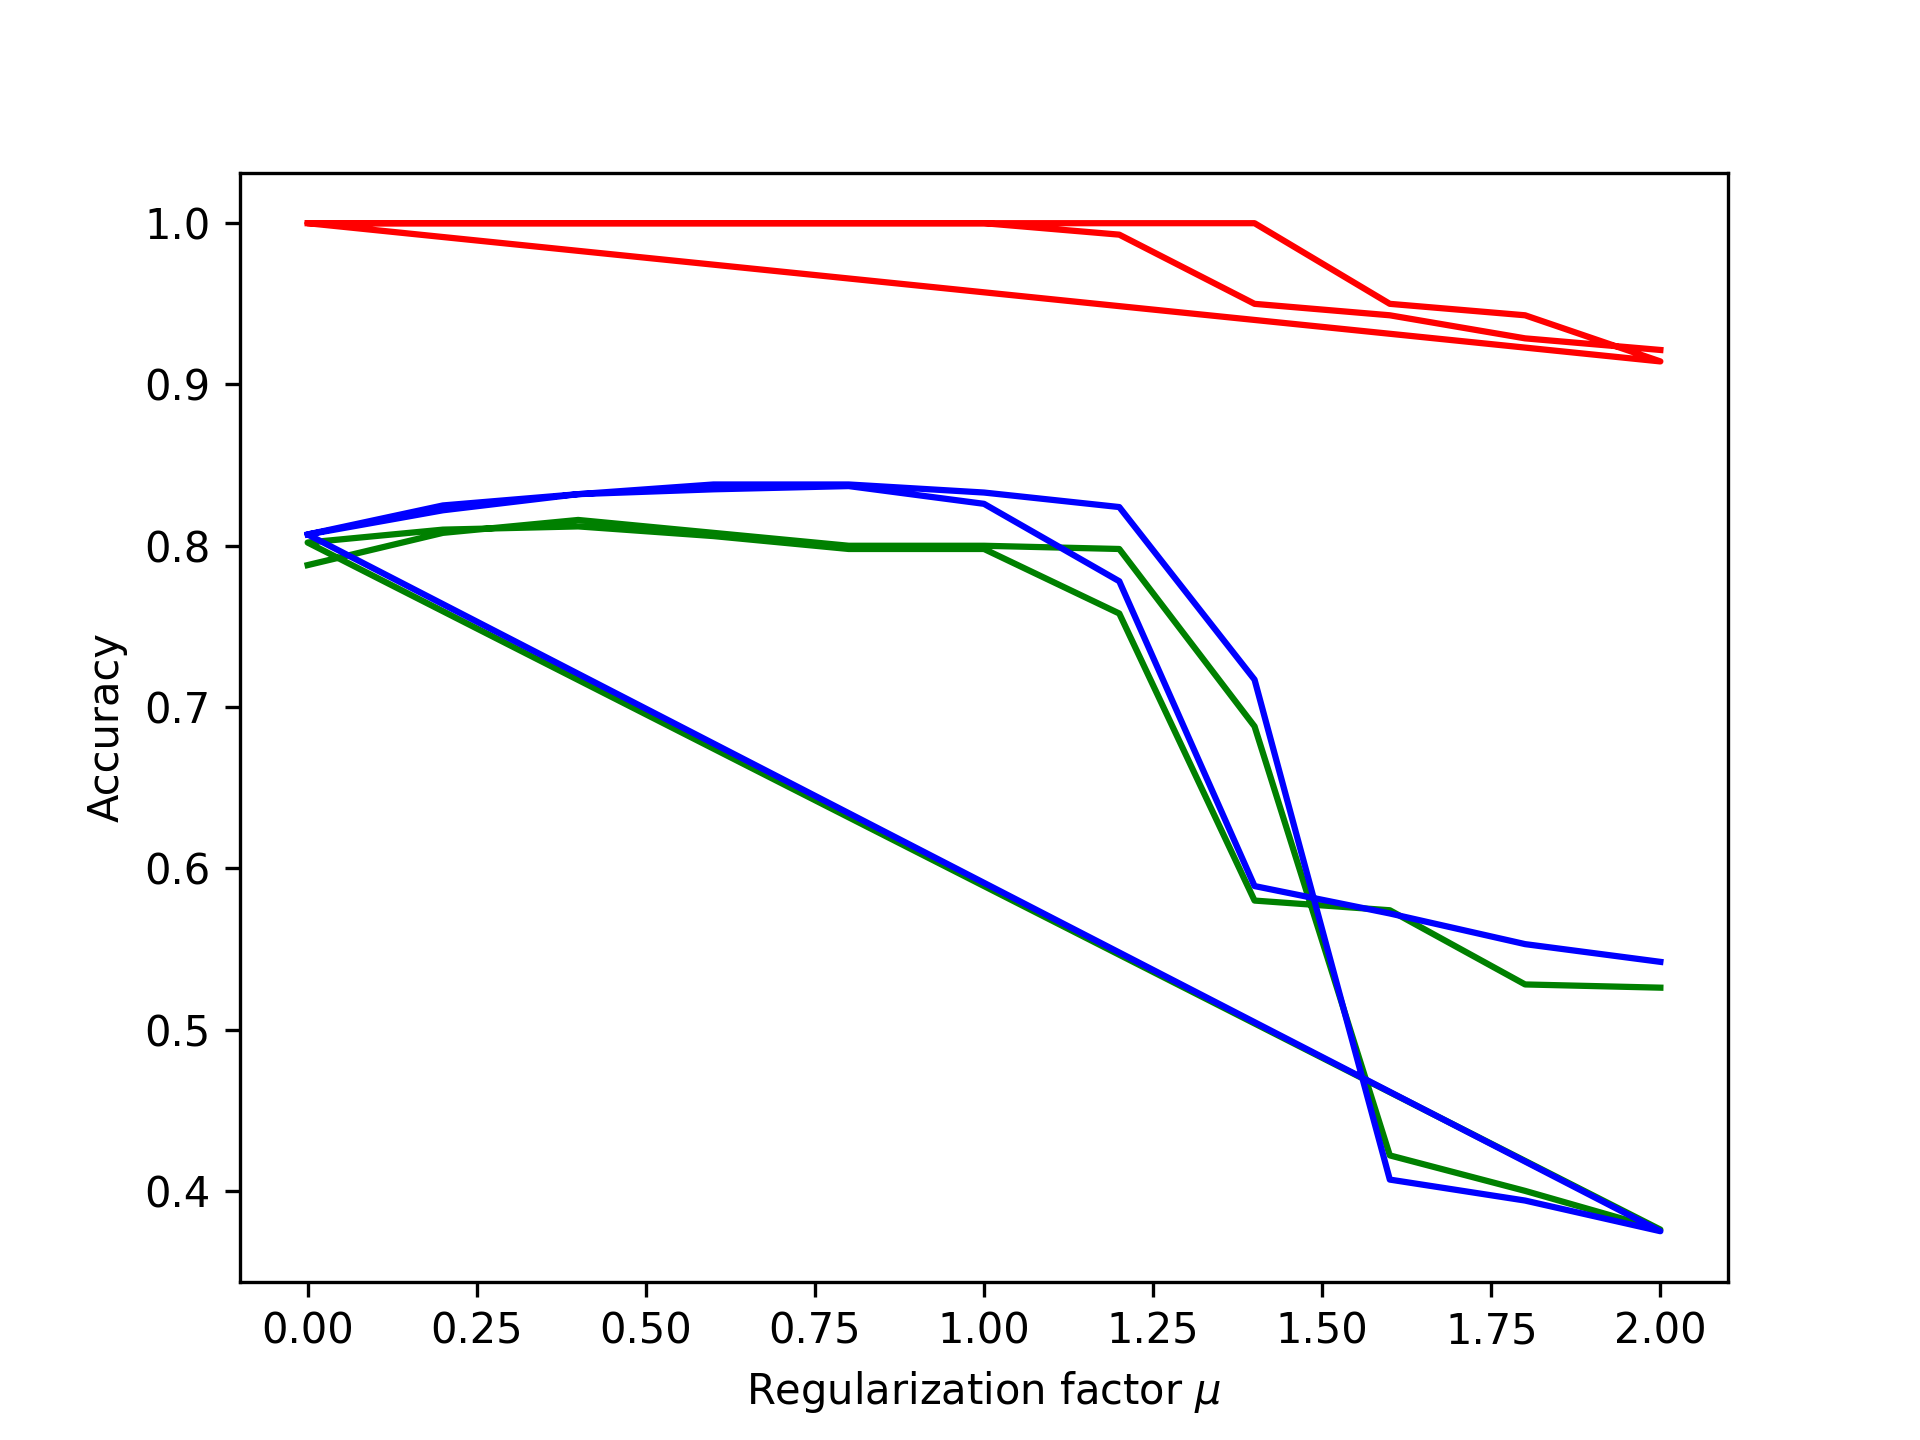
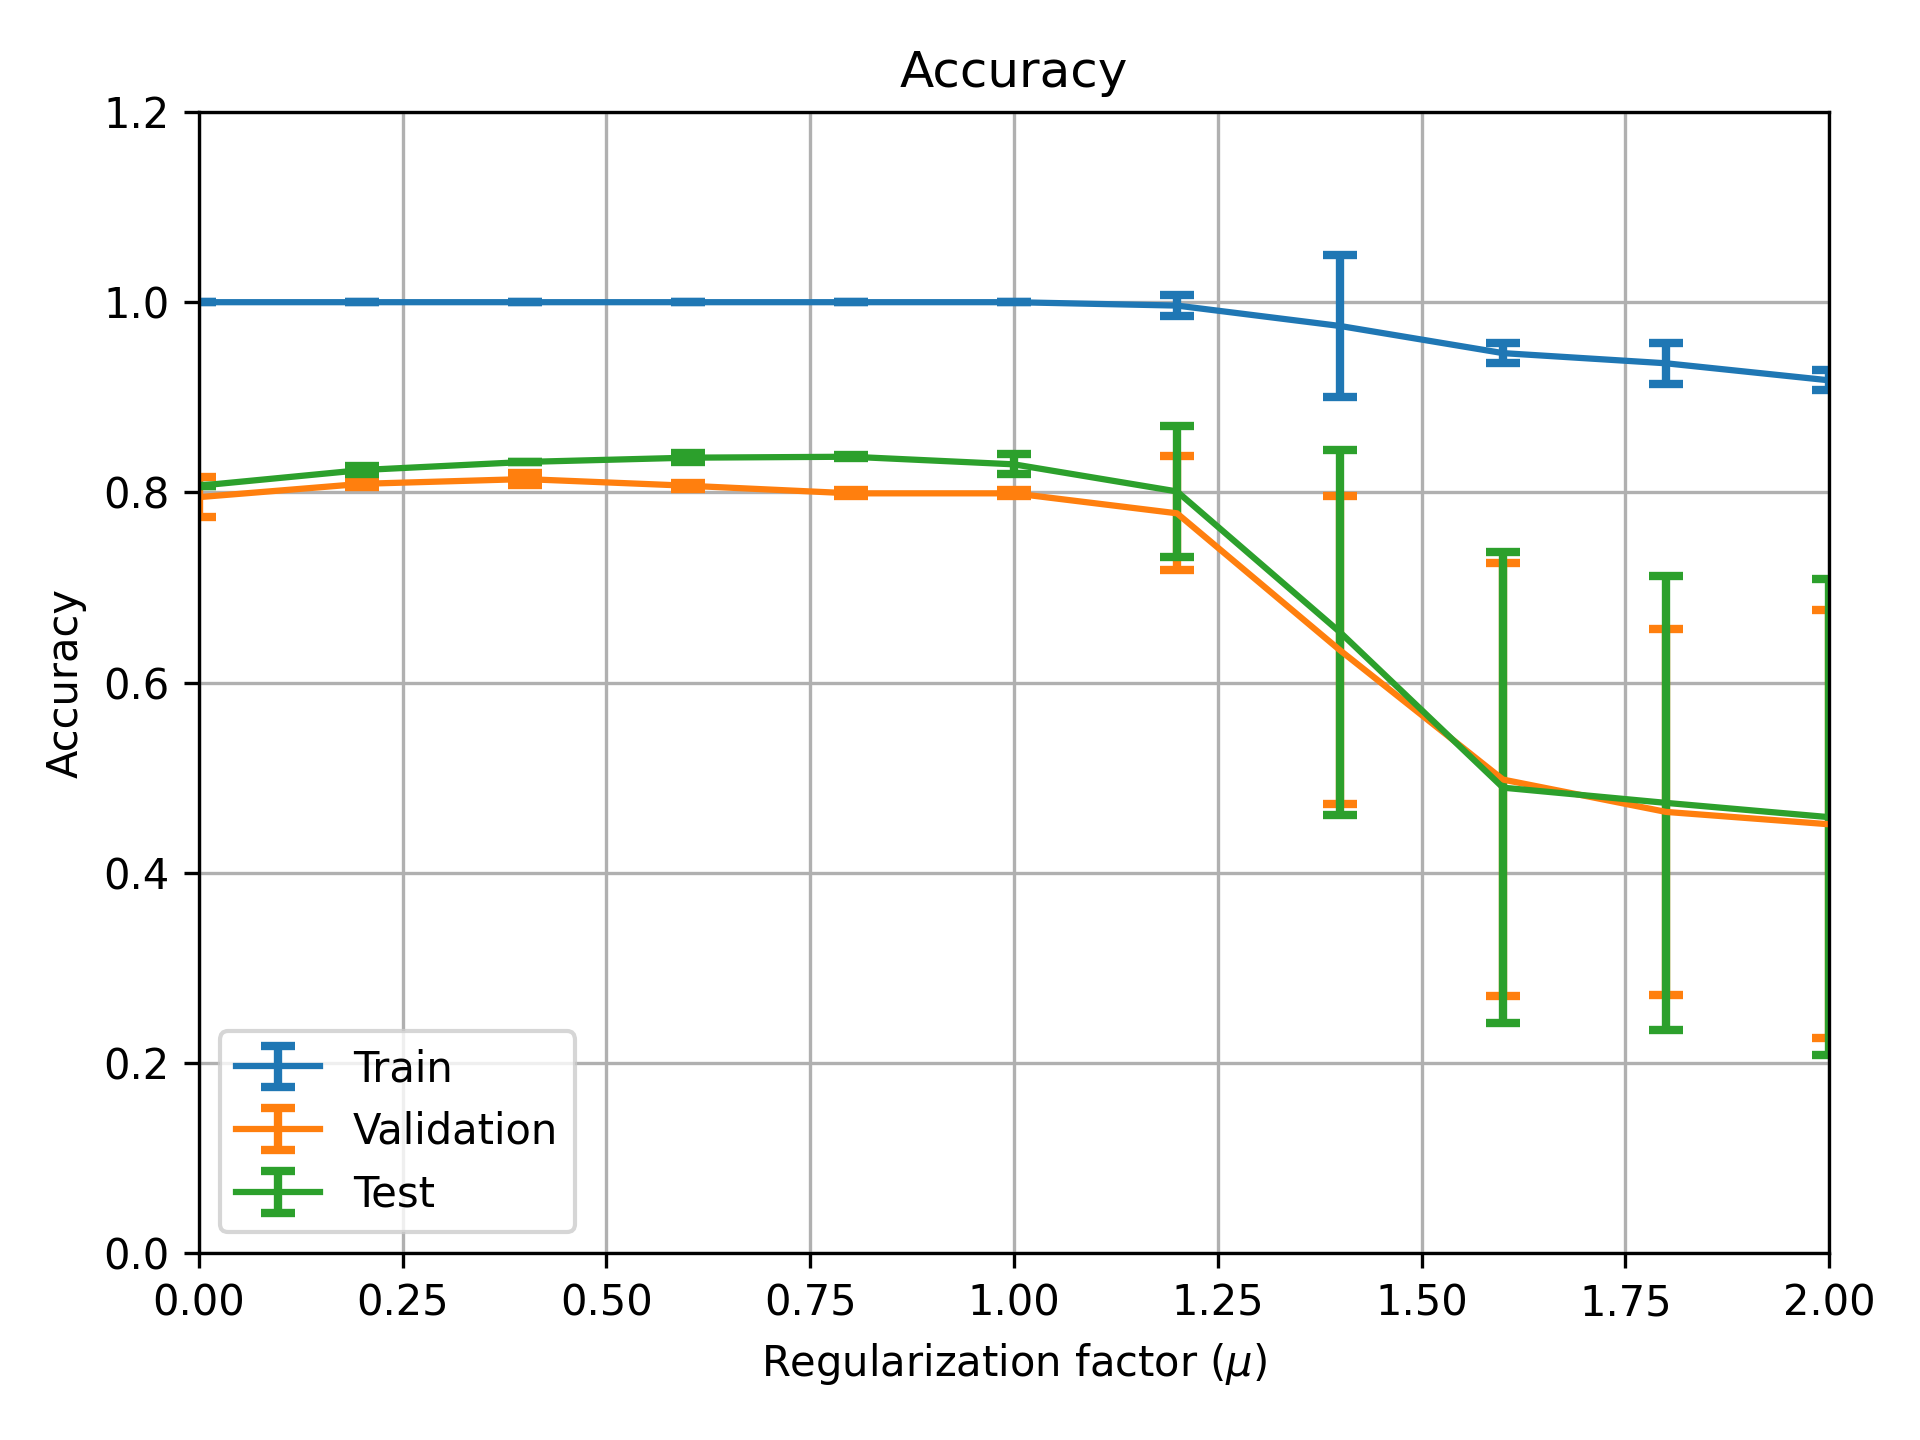
format figures

diff --git a/src/visualization/visualize.py b/src/visualization/visualize.py
@@ -1,5 +1,9 @@
 import os
+import numpy as np
 import matplotlib.pyplot as plt
+import pandas as pd
+
+from mpl_toolkits.axes_grid1 import make_axes_locatable
 
 
 def gen_fig(filename, x, ys, xlabel, ylabels, ycolors, dpi=300):
@@ -8,4 +12,277 @@ def gen_fig(filename, x, ys, xlabel, ylabels, ycolors, dpi=300):
         ax.plot(x, y, xlabel=xlabel, ylabel=ylabel)
     plt.legend()
     plt.save_fig(os.path.join('reports', filename), dpi=dpi)
+
+
+def viz_swipe_preg_on_mu_icd():
+    csv_path = 'reports/swipe_preg_on_mu.csv'
+    df = pd.read_csv(csv_path)
+    seeds = df['seed'].unique()
+
+    arr = np.array([df[df['seed'] == seed]['icd'] for seed in seeds])
+    icd_means = arr.mean(axis=0)
+    icd_vars = arr.var(axis=0)
+
+    mus = df[df['seed']==seeds[0]]['mu']
+
+    fig, ax = plt.subplots(figsize=(6.4, 4.8))
+    # ax.set_title('Intra class distance')
+    ax.set(
+        title='Intra class distance',
+        xlabel='Regularization factor ($\mu$)',
+        ylabel='Intra class distance ($\omega$)',
+        xlim=(0, 2),
+        ylim=(0.26, 0.48),
+        xticks=np.linspace(0, 2, num=11),
+        yticks=np.linspace(0.26, 0.48, 12)
+        )
+    ax.grid()
+    plt.tight_layout()
+
+    plt.errorbar(mus, icd_means, yerr=3*icd_vars**.5, elinewidth=2, capsize=4, capthick=2)
+    plt.savefig('reports/swipe_preg_on_mu_icd.png', dpi=300)
+
+
+def viz_swipe_preg_on_mu_acc():
+    csv_path = 'reports/swipe_preg_on_mu.csv'
+
+    df = pd.read_csv(csv_path)
+    seeds = df['seed'].unique()
+
+    arr_acc_train = np.array([df[df['seed'] == seed]['train_acc'] for seed in seeds])
+    acc_train_means = arr_acc_train.mean(axis=0)
+    acc_train_vars = arr_acc_train.var(axis=0)
+
+    arr_acc_val = np.array([df[df['seed'] == seed]['val_acc'] for seed in seeds])
+    acc_val_means = arr_acc_val.mean(axis=0)
+    acc_val_vars = arr_acc_val.var(axis=0)
+
+    arr_acc_test = np.array([df[df['seed'] == seed]['test_acc'] for seed in seeds])
+    acc_test_means = arr_acc_test.mean(axis=0)
+    acc_test_vars = arr_acc_test.var(axis=0)
+
+
+    mus = df[df['seed']==seeds[0]]['mu']
+
+    fig, ax = plt.subplots(figsize=(6.4, 4.8))
+    # ax.set_title('Intra class distance')
+    ax.set(
+        title='Accuracy',
+        xlabel='Regularization factor ($\mu$)',
+        ylabel='Accuracy',
+        xlim=(0, 2),
+        ylim=(0., 1.2),
+        # xticks=np.linspace(0, 2, num=11),
+        # yticks=np.linspace(0.26, 0.48, 12)
+        )
+    ax.grid()
+    plt.tight_layout()
+
+    plt.errorbar(mus, acc_train_means, yerr=3*acc_train_vars**.5, elinewidth=2, capsize=4, capthick=2, label='Train')
+
+    plt.errorbar(mus, acc_val_means, yerr=3*acc_val_vars**.5, elinewidth=2, capsize=4, capthick=2, label='Validation')
+
+    plt.errorbar(mus, acc_test_means, yerr=3*acc_test_vars**.5, elinewidth=2, capsize=4, capthick=2, label='Test')
+
+    plt.legend(loc='lower left')
+
+    plt.savefig('reports/swipe_preg_on_mu_acc.png', dpi=300)
+
+
+
+def viz_swipe_preg_on_train_size():
+    csv_path = 'reports/swipe_preg_on_train_size.csv'
+    df = pd.read_csv(csv_path)
+    seeds = df['seed'].unique()
+
+    train_sizes = df[(df['seed']==seeds[0]) & (df['model'] == 'gcn')]['num_training_nodes']
+
+    arr_gcn = np.array([df[(df['seed'] == seed) & (df['model'] == 'gcn')]['test_acc'] for seed in seeds]) 
+    acc_gcn_means = arr_gcn.mean(axis=0)
+    acc_gcn_vars = arr_gcn.var(axis=0)
+
+    arr_gat = np.array([df[(df['seed'] == seed) & (df['model'] == 'gat')]['test_acc'] for seed in seeds])
+    acc_gat_means = arr_gat.mean(axis=0)
+    acc_gat_vars = arr_gat.var(axis=0)
+
+    fig, ax = plt.subplots(figsize=(6.4, 4.8))
+
+    plt.errorbar(train_sizes, acc_gcn_means, yerr=3*acc_gcn_vars**.5, elinewidth=2, capsize=4, capthick=2, label='GCN')
+
+    plt.errorbar(train_sizes, acc_gat_means, yerr=3*acc_gat_vars**.5, elinewidth=2, capsize=4, capthick=2, label='GAT')
+
+
+    ax.set(
+        title='Relation between training nodes and accuracy',
+        xlim=(0,100),
+        ylim=(0, 1), 
+        xlabel='No. training nodes', 
+        ylabel='Test accuracy',
+        xticks=np.linspace(0, 100, 11),
+        yticks=np.linspace(0, 1, 6),
+        )
+    ax.grid()
+    ax.legend(loc='lower left')
+    plt.tight_layout()
+
+    plt.savefig('reports/swipe_preg_on_train_size.png', dpi=300)
+
+
+def viz_swipe_preg_on_unmask_preg_ratio():
+    csv_path = 'reports/swipe_preg_on_unmask_preg_ratio.csv'
+    df = pd.read_csv(csv_path)
+    seeds = df['seed'].unique()
+
+    unmask_preg_ratios = df[(df['seed']==seeds[0]) & (df['model'] == 'gcn')]['unmask preg ratio']
+
+    arr_gcn = np.array([df[(df['seed'] == seed) & (df['model'] == 'gcn')]['test_acc'] for seed in seeds]) 
+    acc_gcn_means = arr_gcn.mean(axis=0)
+    acc_gcn_vars = arr_gcn.var(axis=0)
+
+    arr_gat = np.array([df[(df['seed'] == seed) & (df['model'] == 'gat')]['test_acc'] for seed in seeds])
+    acc_gat_means = arr_gat.mean(axis=0)
+    acc_gat_vars = arr_gat.var(axis=0)
+
+    fig, ax = plt.subplots(figsize=(6.4, 4.8))
+
+    plt.errorbar(unmask_preg_ratios, acc_gcn_means, yerr=3*acc_gcn_vars**.5, elinewidth=2, capsize=4, capthick=2, label='GCN')
+
+    plt.errorbar(unmask_preg_ratios, acc_gat_means, yerr=3*acc_gat_vars**.5, elinewidth=2, capsize=4, capthick=2, label='GAT')
+
+    ax.set(
+        title='Relation between number of nodes used for regularization and accuracy',
+        xlim=(0,1),
+        # ylim=(0, 1), 
+        xlabel='No. training nodes', 
+        ylabel='Test accuracy',
+        xticks=np.linspace(0, 1, 11),
+        # yticks=np.linspace(0, 1, 6),
+        )
+    ax.grid()
+    ax.legend(loc='lower left')
+    plt.tight_layout()
+
+    plt.savefig('reports/swipe_preg_on_unmask_preg_ratio.png', dpi=300)
+
+
+
+def viz_swipe_preg_on_unmask_preg_ratio():
+    csv_path = 'reports/swipe_preg_and_lapreg_on_mu.csv'
+    df = pd.read_csv(csv_path)
+    seeds = df['seed'].unique()
+
+    mus = df[(df['seed']==seeds[0]) & (df['model'] == 'gcn') & (df['reg'] == 'preg_loss')]['mu']
+
+    arr_gcn = np.array([df[(df['seed'] == seed) & (df['model'] == 'gcn') & (df['reg'] == 'preg_loss')]['test_acc'] for seed in seeds]) 
+    acc_gcn_means = arr_gcn.mean(axis=0)
+    acc_gcn_vars = arr_gcn.var(axis=0)
+
+    arr_gat = np.array([df[(df['seed'] == seed) & (df['model'] == 'gat') & (df['reg'] == 'preg_loss')]['test_acc'] for seed in seeds])
+    acc_gat_means = arr_gat.mean(axis=0)
+    acc_gat_vars = arr_gat.var(axis=0)
+
+    arr_gcn_lap = np.array([df[(df['seed'] == seed) & (df['model'] == 'gcn') & (df['reg'] == 'lap_loss')]['test_acc'] for seed in seeds]) 
+    acc_gcn_lap_means = arr_gcn_lap.mean(axis=0)
+    acc_gcn_lap_vars = arr_gcn_lap.var(axis=0)
+
+    arr_gat_lap = np.array([df[(df['seed'] == seed) & (df['model'] == 'gat') & (df['reg'] == 'lap_loss')]['test_acc'] for seed in seeds])
+    acc_gat_lap_means = arr_gat_lap.mean(axis=0)
+    acc_gat_lap_vars = arr_gat_lap.var(axis=0)
     
+    
+    fig, ax = plt.subplots(figsize=(6.4, 4.8))
+
+    plt.errorbar(mus, acc_gcn_means, fmt='r', yerr=3*acc_gcn_vars**.5, elinewidth=2, capsize=4, capthick=2, label='GCN - PREG')
+
+    plt.errorbar(mus, acc_gat_means, fmt='b', yerr=3*acc_gat_vars**.5, elinewidth=2, capsize=4, capthick=2, label='GAT - PREG')
+
+    plt.errorbar(mus, acc_gcn_lap_means, fmt='--r', yerr=3*acc_gat_vars**.5, elinewidth=2, capsize=4, capthick=2, label='GCN - LAPLOSS')
+
+    plt.errorbar(mus, acc_gat_lap_means, fmt='--b', yerr=3*acc_gat_vars**.5, elinewidth=2, capsize=4, capthick=2, label='GAT - LAPLOSS')
+
+    """ax.set(
+        title='Relation between number of nodes used for regularization and accuracy',
+        xlim=(0,1),
+        # ylim=(0, 1), 
+        xlabel='No. training nodes', 
+        ylabel='Test accuracy',
+        xticks=np.linspace(0, 1, 11),
+        # yticks=np.linspace(0, 1, 6),
+        )"""
+    ax.grid()
+    ax.legend(loc='lower left')
+    plt.tight_layout()
+
+    plt.savefig('reports/swipe_preg_and_lapreg_on_mu.png', dpi=300)
+
+
+def _add_colorbar(im, fig, ax):
+    divider = make_axes_locatable(ax)
+    cax = divider.append_axes('right', size='5%', pad=0.05)
+    fig.colorbar(im, cax=cax, orientation='vertical')
+
+
+
+def viz_swipe_preg_on_mu_and_neurs_icd():
+    df = pd.read_csv('reports/swipe_preg_on_mu_and_neurs.csv')
+    # df['icd'] = df['icd'].apply(lambda l: float(l.split('(')[-1].split(')')[0]))
+    print(df.head())
+    # ridiculously slow implementation, but I don't want to figure this out now
+    arr = np.zeros((df['hidden_channels'].unique().shape[0], df['mu'].unique().shape[0]))
+    for ind_i, i in enumerate(df['hidden_channels'].unique()):
+        for ind_j, j in enumerate(df['mu'].unique()):
+            # print((df['hidden_channels'] == i) & (df['mu'] == j))
+            # print(df[(df['hidden_channels'] == i) & (df['mu'] == j)]['test_acc'])
+            arr[ind_i,ind_j] = df[(df['hidden_channels'] == i) & (df['mu'] == j)]['icd'].mean()
+
+    # arr = np.nan_to_num(arr)
+    fig, ax = plt.subplots()
+    im = ax.pcolormesh(list(map(lambda l: 2*l, [0, 1, 2, 3, 4, 5, 6, 7, 8, 9, 10, 11, 12, 13, 14, 15, 16, 17, 18, 19, 20])), [1, 2, 4, 8, 16, 32, 64, 128, 256], arr, )
+    ax.set_yscale('log')
+    ax.set_yticks([1, 2, 4, 8, 16, 32, 64, 128, 256])
+    ax.set_yticklabels([1, 2, 4, 8, 16, 32, 64, 128, 256])
+    _add_colorbar(im, fig, ax)
+
+    ax.set(
+        title='Effects of changing model complexity and the amont of applied regularization jointly',
+        xlabel='Regularization factor', 
+        ylabel='No. neurons in hidden layer')
+    ax.legend()
+    plt.savefig('reports/swipe_preg_on_mu_and_neurs_icd.png', dpi=300)
+
+
+def viz_swipe_preg_on_mu_and_neurs_acc():
+    df = pd.read_csv('reports/swipe_preg_on_mu_and_neurs.csv')
+    # df['icd'] = df['icd'].apply(lambda l: float(l.split('(')[-1].split(')')[0]))
+    print(df.head())
+    # ridiculously slow implementation, but I don't want to figure this out now
+    arr = np.zeros((df['hidden_channels'].unique().shape[0], df['mu'].unique().shape[0]))
+    for ind_i, i in enumerate(df['hidden_channels'].unique()):
+        for ind_j, j in enumerate(df['mu'].unique()):
+            # print((df['hidden_channels'] == i) & (df['mu'] == j))
+            # print(df[(df['hidden_channels'] == i) & (df['mu'] == j)]['test_acc'])
+            arr[ind_i,ind_j] = df[(df['hidden_channels'] == i) & (df['mu'] == j)]['test_acc'].mean()
+
+    # arr = np.nan_to_num(arr)
+    fig, ax = plt.subplots()
+    im = ax.pcolormesh(list(map(lambda l: 2*l, [0, 1, 2, 3, 4, 5, 6, 7, 8, 9, 10, 11, 12, 13, 14, 15, 16, 17, 18, 19, 20])), [1, 2, 4, 8, 16, 32, 64, 128, 256], arr, )
+    ax.set_yscale('log')
+    ax.set_yticks([1, 2, 4, 8, 16, 32, 64, 128, 256])
+    ax.set_yticklabels([1, 2, 4, 8, 16, 32, 64, 128, 256])
+    _add_colorbar(im, fig, ax)
+
+    ax.set(
+        title='Effects of changing model complexity and the amont of applied regularization jointly',
+        xlabel='Regularization factor', 
+        ylabel='No. neurons in hidden layer')
+    ax.legend()
+    plt.savefig('reports/swipe_preg_on_mu_and_neurs_acc.png', dpi=300)
+
+
+if __name__ == '__main__':
+    viz_swipe_preg_on_mu_icd()
+    viz_swipe_preg_on_mu_acc()
+    viz_swipe_preg_on_train_size()
+    viz_swipe_preg_on_unmask_preg_ratio()
+    viz_swipe_preg_on_mu_and_neurs_acc()
+    viz_swipe_preg_on_mu_and_neurs_icd()

diff --git a/src/experiments/swipe_preg_on_unmask_preg_ratio.py b/src/experiments/swipe_preg_on_unmask_preg_ratio.py
@@ -34,7 +34,7 @@ mu = 0.7
 metrics = []
 for seed in range(4):
     for model_name in ('gcn', 'gat'):
-        for alpha in  [.1, .2, .3, .4, .5, .6, .7, .8, .9, 1]:
+        for alpha in  [0, .1, .2, .3, .4, .5, .6, .7, .8, .9, 1]:
             data = set_reg_mask(data, int(alpha*data.x.shape[0]))
             loss_fn = make_preg_ce_ce(mu, a_hat)
             torch.manual_seed(1)
